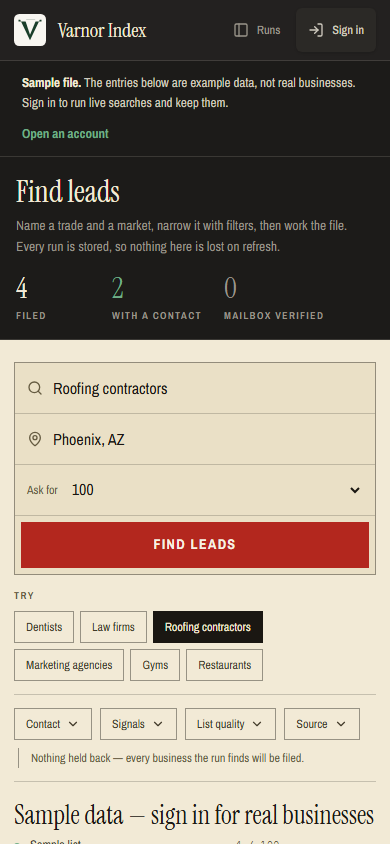
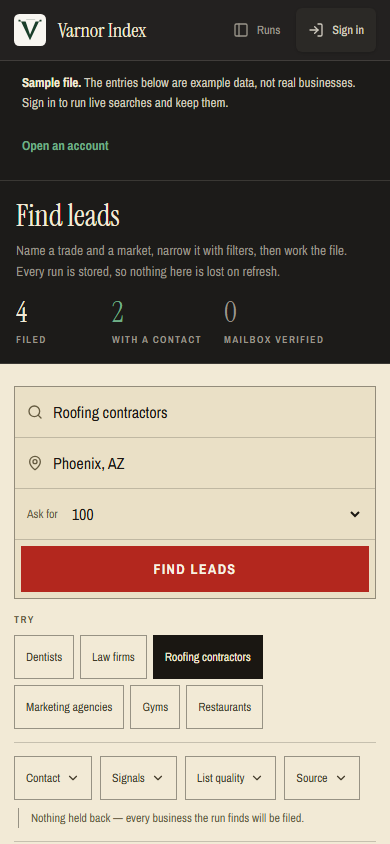
Fix the fact-label collision below 980px, and the phone touch targets
The label office@apexroofingaz.com is 132px wide and its grid cell was a
hard 92px below the breakpoint, so it overflowed by 40px and ran 32px past
the value beside it: the Verified face's live check printed as
office@apexroofingaz.comAccepted at 390, 560 and 980. The desktop rule
already used minmax(118px, max-content) for exactly this; the mobile
override dropped the floor. minmax(92px, max-content) on both sides now.

Found by sweeping every route at six widths for scrollWidth > clientWidth
rather than by looking, because a collision is invisible in one capture.

Also held the workspace's phone controls to the 44px the landing band
already met: chips, toggles, export, masthead links, the sample banner
link and the account screens' one button all measured 32-42px.

Sweeps after: no overflow, no contrast failure, no console error, on all
seven routes.

Changed region(s): [[0.0, 0.154, 1.0, 1.0], [0.7385, 0.8318, 0.8308, 0.8626], [0.8615, 0.8318, 0.8923, 0.8626]]

diff --git a/revised/app.html b/revised/app.html
@@ -1931,12 +1931,21 @@ a{text-decoration:none;color:inherit}
      that is still under the breakpoint. */
   .cr-mark { max-width: 21px; height: 17px; }
   .cr-sources { grid-template-columns: 1fr; gap: 15px; }
-  .cr-fact { grid-template-columns: 92px minmax(0, 1fr); gap: 8px; }
-  /* The label column drops to 92px and the value to 13px. At 390 the card's
-     inner width is 318px, so the value column is 318 - 100 = 218px; the longest
-     unavoidable token, office@apexroofingaz.com, is 24 mono characters — 187px
-     at 13px against 194px at 13.5px, which is the 1px by which the address was
-     still breaking mid-word. An address that wraps is not an address. */
+  /* 92px is the floor here for the same reason 118px is the floor on the
+     desktop, and the floor is all it is. The first version of this line was a
+     hard 92px, which reintroduced the exact defect the desktop rule above was
+     written to fix: office@apexroofingaz.com is 132px as a *label*, so it
+     overflowed its cell by 40px and ran 32px past the value beside it, printing
+     the Verified face's live check as "office@apexroofingaz.comAccepted" at
+     every width below 980. The desktop pass only looked for the address
+     breaking mid-word and so never saw it. max-content on the label column,
+     both sides of the breakpoint. */
+  .cr-fact { grid-template-columns: minmax(92px, max-content) minmax(0, 1fr); gap: 8px; }
+  /* The value drops to 13px. At 390 the card's inner width is 318px, so a
+     label at its 92px floor leaves the value 218px; the longest unavoidable
+     token, office@apexroofingaz.com, is 24 mono characters — 187px at 13px
+     against 194px at 13.5px, which is the 1px by which the address was still
+     breaking mid-word. An address that wraps is not an address. */
   .cr-fact dd { font-size: 13px; }
   /* At 390 the kind ("the page that answered") took half the line and broke
      the URL mid-word. The URL gets the row to itself and the kind falls under

diff --git a/revised/how-it-reads.html b/revised/how-it-reads.html
@@ -1931,12 +1931,21 @@ a{text-decoration:none;color:inherit}
      that is still under the breakpoint. */
   .cr-mark { max-width: 21px; height: 17px; }
   .cr-sources { grid-template-columns: 1fr; gap: 15px; }
-  .cr-fact { grid-template-columns: 92px minmax(0, 1fr); gap: 8px; }
-  /* The label column drops to 92px and the value to 13px. At 390 the card's
-     inner width is 318px, so the value column is 318 - 100 = 218px; the longest
-     unavoidable token, office@apexroofingaz.com, is 24 mono characters — 187px
-     at 13px against 194px at 13.5px, which is the 1px by which the address was
-     still breaking mid-word. An address that wraps is not an address. */
+  /* 92px is the floor here for the same reason 118px is the floor on the
+     desktop, and the floor is all it is. The first version of this line was a
+     hard 92px, which reintroduced the exact defect the desktop rule above was
+     written to fix: office@apexroofingaz.com is 132px as a *label*, so it
+     overflowed its cell by 40px and ran 32px past the value beside it, printing
+     the Verified face's live check as "office@apexroofingaz.comAccepted" at
+     every width below 980. The desktop pass only looked for the address
+     breaking mid-word and so never saw it. max-content on the label column,
+     both sides of the breakpoint. */
+  .cr-fact { grid-template-columns: minmax(92px, max-content) minmax(0, 1fr); gap: 8px; }
+  /* The value drops to 13px. At 390 the card's inner width is 318px, so a
+     label at its 92px floor leaves the value 218px; the longest unavoidable
+     token, office@apexroofingaz.com, is 24 mono characters — 187px at 13px
+     against 194px at 13.5px, which is the 1px by which the address was still
+     breaking mid-word. An address that wraps is not an address. */
   .cr-fact dd { font-size: 13px; }
   /* At 390 the kind ("the page that answered") took half the line and broke
      the URL mid-word. The URL gets the row to itself and the kind falls under

diff --git a/revised/index.html b/revised/index.html
@@ -1931,12 +1931,21 @@ a{text-decoration:none;color:inherit}
      that is still under the breakpoint. */
   .cr-mark { max-width: 21px; height: 17px; }
   .cr-sources { grid-template-columns: 1fr; gap: 15px; }
-  .cr-fact { grid-template-columns: 92px minmax(0, 1fr); gap: 8px; }
-  /* The label column drops to 92px and the value to 13px. At 390 the card's
-     inner width is 318px, so the value column is 318 - 100 = 218px; the longest
-     unavoidable token, office@apexroofingaz.com, is 24 mono characters — 187px
-     at 13px against 194px at 13.5px, which is the 1px by which the address was
-     still breaking mid-word. An address that wraps is not an address. */
+  /* 92px is the floor here for the same reason 118px is the floor on the
+     desktop, and the floor is all it is. The first version of this line was a
+     hard 92px, which reintroduced the exact defect the desktop rule above was
+     written to fix: office@apexroofingaz.com is 132px as a *label*, so it
+     overflowed its cell by 40px and ran 32px past the value beside it, printing
+     the Verified face's live check as "office@apexroofingaz.comAccepted" at
+     every width below 980. The desktop pass only looked for the address
+     breaking mid-word and so never saw it. max-content on the label column,
+     both sides of the breakpoint. */
+  .cr-fact { grid-template-columns: minmax(92px, max-content) minmax(0, 1fr); gap: 8px; }
+  /* The value drops to 13px. At 390 the card's inner width is 318px, so a
+     label at its 92px floor leaves the value 218px; the longest unavoidable
+     token, office@apexroofingaz.com, is 24 mono characters — 187px at 13px
+     against 194px at 13.5px, which is the 1px by which the address was still
+     breaking mid-word. An address that wraps is not an address. */
   .cr-fact dd { font-size: 13px; }
   /* At 390 the kind ("the page that answered") took half the line and broke
      the URL mid-word. The URL gets the row to itself and the kind falls under

diff --git a/revised/not-on-file.html b/revised/not-on-file.html
@@ -1931,12 +1931,21 @@ a{text-decoration:none;color:inherit}
      that is still under the breakpoint. */
   .cr-mark { max-width: 21px; height: 17px; }
   .cr-sources { grid-template-columns: 1fr; gap: 15px; }
-  .cr-fact { grid-template-columns: 92px minmax(0, 1fr); gap: 8px; }
-  /* The label column drops to 92px and the value to 13px. At 390 the card's
-     inner width is 318px, so the value column is 318 - 100 = 218px; the longest
-     unavoidable token, office@apexroofingaz.com, is 24 mono characters — 187px
-     at 13px against 194px at 13.5px, which is the 1px by which the address was
-     still breaking mid-word. An address that wraps is not an address. */
+  /* 92px is the floor here for the same reason 118px is the floor on the
+     desktop, and the floor is all it is. The first version of this line was a
+     hard 92px, which reintroduced the exact defect the desktop rule above was
+     written to fix: office@apexroofingaz.com is 132px as a *label*, so it
+     overflowed its cell by 40px and ran 32px past the value beside it, printing
+     the Verified face's live check as "office@apexroofingaz.comAccepted" at
+     every width below 980. The desktop pass only looked for the address
+     breaking mid-word and so never saw it. max-content on the label column,
+     both sides of the breakpoint. */
+  .cr-fact { grid-template-columns: minmax(92px, max-content) minmax(0, 1fr); gap: 8px; }
+  /* The value drops to 13px. At 390 the card's inner width is 318px, so a
+     label at its 92px floor leaves the value 218px; the longest unavoidable
+     token, office@apexroofingaz.com, is 24 mono characters — 187px at 13px
+     against 194px at 13.5px, which is the 1px by which the address was still
+     breaking mid-word. An address that wraps is not an address. */
   .cr-fact dd { font-size: 13px; }
   /* At 390 the kind ("the page that answered") took half the line and broke
      the URL mid-word. The URL gets the row to itself and the kind falls under

diff --git a/revised/plates.html b/revised/plates.html
@@ -1931,12 +1931,21 @@ a{text-decoration:none;color:inherit}
      that is still under the breakpoint. */
   .cr-mark { max-width: 21px; height: 17px; }
   .cr-sources { grid-template-columns: 1fr; gap: 15px; }
-  .cr-fact { grid-template-columns: 92px minmax(0, 1fr); gap: 8px; }
-  /* The label column drops to 92px and the value to 13px. At 390 the card's
-     inner width is 318px, so the value column is 318 - 100 = 218px; the longest
-     unavoidable token, office@apexroofingaz.com, is 24 mono characters — 187px
-     at 13px against 194px at 13.5px, which is the 1px by which the address was
-     still breaking mid-word. An address that wraps is not an address. */
+  /* 92px is the floor here for the same reason 118px is the floor on the
+     desktop, and the floor is all it is. The first version of this line was a
+     hard 92px, which reintroduced the exact defect the desktop rule above was
+     written to fix: office@apexroofingaz.com is 132px as a *label*, so it
+     overflowed its cell by 40px and ran 32px past the value beside it, printing
+     the Verified face's live check as "office@apexroofingaz.comAccepted" at
+     every width below 980. The desktop pass only looked for the address
+     breaking mid-word and so never saw it. max-content on the label column,
+     both sides of the breakpoint. */
+  .cr-fact { grid-template-columns: minmax(92px, max-content) minmax(0, 1fr); gap: 8px; }
+  /* The value drops to 13px. At 390 the card's inner width is 318px, so a
+     label at its 92px floor leaves the value 218px; the longest unavoidable
+     token, office@apexroofingaz.com, is 24 mono characters — 187px at 13px
+     against 194px at 13.5px, which is the 1px by which the address was still
+     breaking mid-word. An address that wraps is not an address. */
   .cr-fact dd { font-size: 13px; }
   /* At 390 the kind ("the page that answered") took half the line and broke
      the URL mid-word. The URL gets the row to itself and the kind falls under

diff --git a/revised/what-is-on-file.html b/revised/what-is-on-file.html
@@ -1931,12 +1931,21 @@ a{text-decoration:none;color:inherit}
      that is still under the breakpoint. */
   .cr-mark { max-width: 21px; height: 17px; }
   .cr-sources { grid-template-columns: 1fr; gap: 15px; }
-  .cr-fact { grid-template-columns: 92px minmax(0, 1fr); gap: 8px; }
-  /* The label column drops to 92px and the value to 13px. At 390 the card's
-     inner width is 318px, so the value column is 318 - 100 = 218px; the longest
-     unavoidable token, office@apexroofingaz.com, is 24 mono characters — 187px
-     at 13px against 194px at 13.5px, which is the 1px by which the address was
-     still breaking mid-word. An address that wraps is not an address. */
+  /* 92px is the floor here for the same reason 118px is the floor on the
+     desktop, and the floor is all it is. The first version of this line was a
+     hard 92px, which reintroduced the exact defect the desktop rule above was
+     written to fix: office@apexroofingaz.com is 132px as a *label*, so it
+     overflowed its cell by 40px and ran 32px past the value beside it, printing
+     the Verified face's live check as "office@apexroofingaz.comAccepted" at
+     every width below 980. The desktop pass only looked for the address
+     breaking mid-word and so never saw it. max-content on the label column,
+     both sides of the breakpoint. */
+  .cr-fact { grid-template-columns: minmax(92px, max-content) minmax(0, 1fr); gap: 8px; }
+  /* The value drops to 13px. At 390 the card's inner width is 318px, so a
+     label at its 92px floor leaves the value 218px; the longest unavoidable
+     token, office@apexroofingaz.com, is 24 mono characters — 187px at 13px
+     against 194px at 13.5px, which is the 1px by which the address was still
+     breaking mid-word. An address that wraps is not an address. */
   .cr-fact dd { font-size: 13px; }
   /* At 390 the kind ("the page that answered") took half the line and broke
      the URL mid-word. The URL gets the row to itself and the kind falls under
